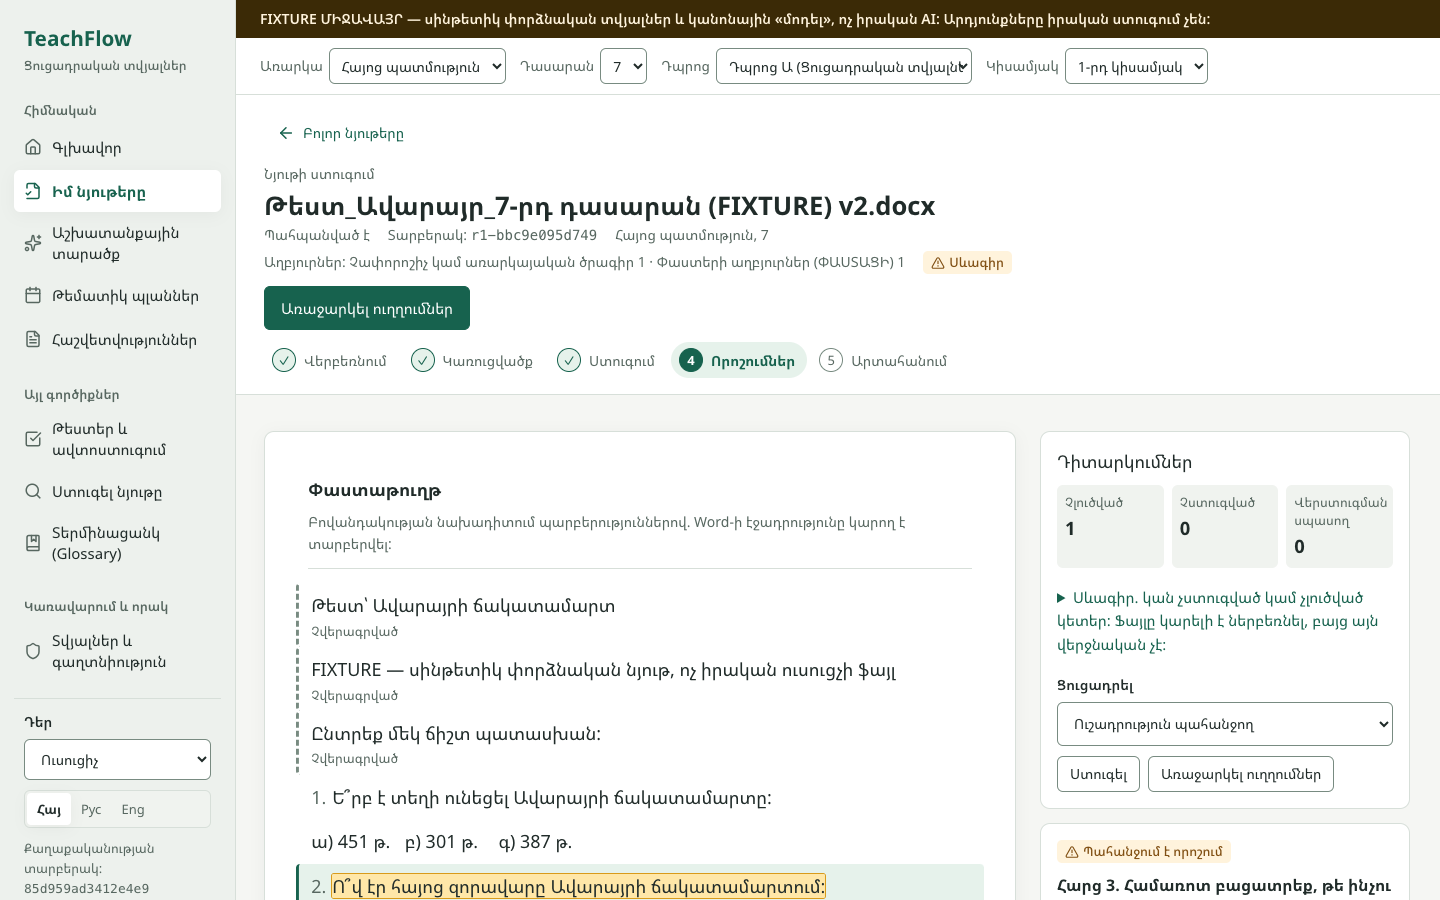
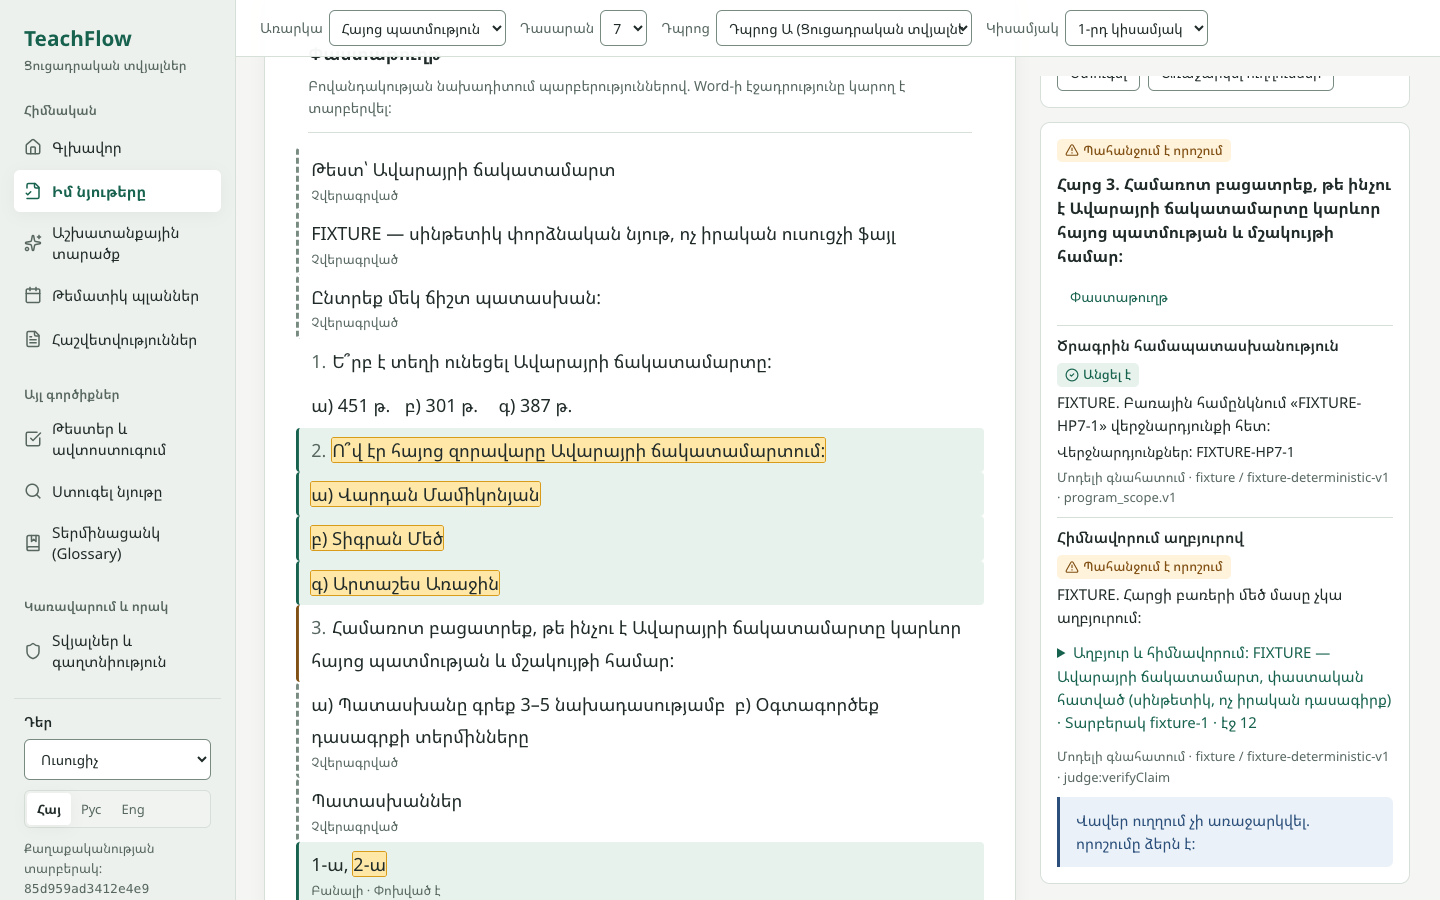
Night build handoff: report, design notes, progress log, TASKS.md

diff --git a/docs/overnight-handoff.md b/docs/overnight-handoff.md
@@ -1,0 +1,127 @@
+# Overnight handoff — 2026-09-24
+
+Branch `claude/docx-material-fix`. Start of the night: `6423a6160e2e21aa0acc670679f96b3d7641f6e9`. Final SHA and push status: see the end of this file.
+**Production: not deployed.** Nothing was merged into `main`. The branch is not the production branch.
+
+## What changed tonight (commits)
+
+| Commit | Summary |
+|---|---|
+| `fed0f0f` | Review sessions: per-review lock + version, run records (running/succeeded/failed/obsolete), late results discarded, spans in segmentation coordinates, **undo**, teacher edits as new proposal revisions, key-only fixes for teacher keys, input-hash reuse, retry of failed calls, formatting policy, exact no-op export, original download, several questions per paragraph, teacher split edits, question-type rules, no-student-data declaration, audit redaction, FIXTURE provider |
+| `be8c6fa` | Found by the E2E run: freshness from dependency invalidation only; option-count uses the real seeded rule; program ≠ factual evidence; Armenian preservation notes; report hash |
+| `a59d0a9` | Armenian-first design system, app shell, Home, the whole review UI, fixture tooling, E2E script and evidence |
+| `06c2297` | Historical debts: consolidation inputs, calendar, embedding audit, MCP strings, academic-year confirmation |
+| `9d73560` | Other screens: translated report statuses, normal-case badges, wrapping headers, screens audit |
+| `504d600` | OpenRouter `max_tokens` bounded (the reason every live call failed) |
+| (docs) | This handoff, the design notes, the progress log, TASKS.md |
+
+## How to run
+
+```bash
+npm install
+npm run dev                      # normal app, http://localhost:3000 (demo data, real provider from .env)
+
+# Separate, labelled FIXTURE environment (rule-based "model", synthetic sources; never touches data/)
+rm -rf .fixture-data && TEACHFLOW_DATA_DIR=.fixture-data npx tsx scripts/fixture-env.ts
+PORT=3100 TEACHFLOW_DATA_DIR=.fixture-data TEACHFLOW_FIXTURE_MODE=1 MODEL_PROVIDER=fixture DISABLE_HMR=true npx tsx server.ts
+node scripts/e2e-review.mjs      # drives the UI in Chrome against :3100, writes docs/e2e + docs/screenshots/after
+npx tsx scripts/inspect-e2e-output.mts   # inspects the downloaded DOCX files
+node scripts/screens-audit.mjs   # main routes on :3000, screenshots + horizontal overflow
+```
+
+`DISABLE_HMR=true` keeps the second server's HMR port free. That also means it does not pick up front-end edits: restart it after changing `src/`.
+
+## Five-minute smoke scenario (by hand, FIXTURE environment on :3100)
+
+1. Open `http://localhost:3100/#/materialReview`. A dark banner says FIXTURE. Upload `docs/fixtures/Թեստ_Ավարայր_7-րդ դասարան (FIXTURE) v2.docx`.
+2. Click **Առաջարկել կառուցվածքը**. Question 3 wrongly gets one "option" (its instruction line). In **Կառուցվածք**, set its type to **Բաց հարց**, click **Հեռացնել տարբերակը**, then **Պահպանել ուղղումները** and **Հաստատել կառուցվածքը**.
+3. Click **Ստուգել** with no sources. Structural checks pass; content checks show **Չի ստուգվել** with the reason (filter **Չստուգված**).
+4. In **Աղբյուրներ**, tick the two FIXTURE sources, click **Պահպանել ընտրությունը**, then **Ստուգել**. Question 2 shows **Խնդիր** with evidence (source, version, page 12). Click it: the document highlights the question, its options and the `2-գ` key entry.
+5. Click **Առաջարկել ուղղումներ**, then **Մերժել առաջարկը**. The failure stays. Propose again, then **Ընդունել ուղղումը**: the key becomes `2-ա` and both questions keyed on that line are re-checked.
+6. Reload: same revision, sources and decisions. Download the corrected DOCX, the original and the report from **Արտահանում**. **Չեղարկել վերջին ուղղումը** restores the previous revision.
+
+## 1. Implemented and verified
+
+- **Deterministic fixture E2E in the real UI** (`scripts/e2e-review.mjs`, log in `docs/e2e/e2e-log.txt`):
+  - upload → proposed structure → teacher correction → no-source checks (structural only) → sources → checks;
+  - the finding highlights exactly the question's spans;
+  - keyboard selection and jump to the document, and Tab reaches accept then decline;
+  - reject leaves the check failed;
+  - accept of the linked key fix, with re-check of the dependent items only;
+  - a stale or repeated decision gets **HTTP 409**;
+  - reload restores the state;
+  - three downloads;
+  - 0px horizontal overflow at 1440 / 1024 / 390 and at 200% zoom;
+  - the drawer closes with Escape and focus returns.
+- **Downloaded files inspected** (`docs/e2e/inspection.txt`):
+  - the original download is byte-identical to the upload (sha256 `5167fb30…`);
+  - in the corrected copy exactly one paragraph changed (`1-ա, 2-գ` → `1-ա, 2-ա`), only `word/document.xml` differs, and only in that one `w:t`;
+  - list numbering is unchanged;
+  - the report's corrected-copy hash equals the download header (`58cc0b0e…`), and it was identical across three runs (deterministic export).
+- **Unit and integration tests: 35 files, 388 tests passing** (`npm test`); `tsc --noEmit` clean; `vite build` OK. The tests cover:
+  - no-op exact bytes, untouched parts, split runs and the formatting policy, lists, table cells, XML escaping, whitespace, Armenian / surrogate / combining characters, protected content;
+  - malformed or unsafe zip and XML, duplicates and paths, entry and decompression limits, `.doc`, `.docm`, `.dotx`;
+  - stale and overlapping patches, the same text in two places, atomic linked groups, double submit, a concurrent check, a late result after a source change, undo, reload, a rejected proposal staying unresolved, no key text inserted;
+  - no sources, demo and unconfirmed sources, wrong subject or grade, changed source, unsupported and multi-select types, ambiguous splits, model failure and retry, result reuse;
+  - audit redaction, embedding audit, MCP strings, calendar, consolidation.
+- **HTTP-level checks on :3000:**
+  - consolidation `{}` → 400, unknown period or template → 400;
+  - a malformed academic year → 400, and a valid one is stored with a manual-confirmation record;
+  - a plan with a calendar of unknown provenance → calendar check `notEvaluated`, hours check still runs.
+- **Live provider smoke test (separate from the fixture E2E):** one real split call on the synthetic file, `google/gemini-3.5-flash` via OpenRouter, 14.5 s. It found 2 single-choice questions with 3 options each and the key 1-ա, 2-գ, with 0 dropped parts. Its audit entry holds only hashes.
+- **Screenshots** (fixture state, labelled FIXTURE in the UI):
+  - before: `docs/screenshots/before/`;
+  - after: `docs/screenshots/after/` (01–14 flow; 10–13 responsive and zoom);
+  - other screens at 1440 and 390: `docs/screenshots/after/screens/` (demo data).
+
+## 2. Implemented but not verified
+
+- **Real Word layout:** `scripts/docx-layout-check.ts` (Word or LibreOffice → PDF → pagination compare) was not run tonight. It opens Microsoft Word through AppleScript, which can stop on a macOS automation permission prompt while nobody is there. The preview is labelled as not being a Word rendering. **Visual layout QA in Word: blocked (needs a person at the machine).**
+- **The live provider beyond splitting:** checks, fixes and re-checks with a real model have not run. They need confirmed real sources; the dev store has only demo sources, which cannot be confirmed.
+- **Screen readers:** no VoiceOver or NVDA pass. The live region, labels and roles are in place but unheard.
+- **Armenian wording:** no fluent reviewer yet. Linguistic QA is pending, as is Russian and English wording review.
+- **Browsers:** only Chrome was tested.
+- **Old records:** the backward-compatibility loading of old review records (missing `version`, `runs`, `atGroupCount`, `'stale'` proposals) is implemented in `reviewService.load()` but not covered by a dedicated test.
+
+## 3. Blocked (external) — smallest next action
+
+| Gate | Blocker | Smallest next action |
+|---|---|---|
+| Real teacher files | None supplied | Get 2–3 anonymised teacher DOCX files; run the smoke scenario on :3000 with a real provider |
+| Real sources | Program / standard / textbook not supplied | Upload them in **Registry**, extract and confirm outcomes, confirm each version (Registry → «Հաստատել vN») |
+| Real Word layout | Needs a person present for Word automation | `npx tsx scripts/docx-layout-check.ts original.docx corrected.docx` and open the PDFs |
+| Linguistic QA | Needs a fluent Armenian reviewer | Review `src/i18n/translations.ts` (`shell`, `home`, `materialReview`, `reports`) and the server messages in `server/materials/*` |
+| Provider budget | The key's limit is low (it could not afford a 65,536-token reservation) | Nothing needed for tonight's scale; `OPENROUTER_MAX_TOKENS` bounds a request |
+
+**Pilot readiness: NOT ready.** Synthetic files, fixture sources and the rule-based fixture provider do not close the real-teacher, real-source or real-Word gates.
+
+## 4. Not in scope (to avoid misunderstanding)
+
+OCR, PDF and scans, tracked-changes export, a separate key file, authentication and multi-tenant isolation (there is none; confirmation names are stated names, not identities), dark mode, and production migration.
+
+## Schema and migration notes (backward compatible, local JSON store)
+
+- `Source.confirmation?` — absent on existing sources, which means **unconfirmed**. It is valid only while `version` and `sourceContentHash` still match. Demo sources are never confirmable.
+- `MaterialReview`:
+  - new `version`, `runs`, `noStudentDataDeclaration?`, and `segmentation.atGroupCount`;
+  - proposal status `'stale'` is renamed `'superseded'`.
+  - `load()` upgrades old records: `version` 0, empty `runs`, `atGroupCount` = the current group count (old records stored spans already in current coordinates), `stale` → `superseded`, and runs left `running` for more than 30 minutes → `failed`.
+- `MaterialItem.stemSpans?`, `MaterialCheck.executionError?`, `MaterialItemResult.inputHash?/checkedAt?`, `MaterialSuggestion.keyChange?/keyBefore?`, `ModelCallInfo.latencyMs?/inputHash?`, and the new check id `question_type` — all optional.
+- `ThematicPlan.calendar` can now be `null`, and carries `source` (`user_confirmed` | `demo`) and `confirmedAt`. Plans stored earlier with the hard-coded 16+18 weeks have no `source`, so their calendar check reports **not evaluated** (intended). `validationNotEvaluated?` is new. The demo seed marks its calendar `demo`; this applies to newly seeded stores. The existing local `data/` store keeps its old plan until "Reset demo data".
+- `ReportInstance.manualConfirmations?` is new.
+- Env: `TEACHFLOW_DATA_DIR`, `PORT`, `TEACHFLOW_FIXTURE_MODE`, `MODEL_PROVIDER=fixture` (refused unless fixture mode, a separate data directory and not production), and `OPENROUTER_MAX_TOKENS`.
+- Files: uploaded DOCX files live in `data/material-files/<sha256>.docx`; the fixture store is in `.fixture-data/`. Both are git-ignored.
+
+## Side effects on the local dev store (`data/`, demo data only)
+
+- One consolidated draft report was created while reproducing the consolidation bug (an empty request at HEAD produced a report).
+- One demo report's academic year changed 2026-2027 → 2025-2026 (with a manual-confirmation record) while testing the new endpoint.
+- Audit log: one entry from before the redaction fix (01:30 UTC) contains the synthetic test's prompt text. It is not real data.
+- "Reset demo data" (sidebar) restores all of these.
+
+## Known issues outside tonight's scope (not changed)
+
+- `server/pipeline/validator.ts` (generated items) checks a rule id `rule-min-options` that does not exist in the seeded rules, so its option-count rule never runs.
+- `server/pipeline/emisAdapter.ts` fills confidence `1.0` and provenance "System recorded" for fields without them.
+- `POST /sources/:id/supersede` invents a version (`<old>-next`) and today's date when none is given.
+- The pinned context in `App.tsx` still starts with demo values (program version `demo-v1`, year `2026-2027`, demo school); they are shown as demo in the shell.

diff --git a/docs/design-reference-notes.md b/docs/design-reference-notes.md
@@ -1,0 +1,36 @@
+# Design reference notes
+
+## Reference pass (time-boxed, 2026-09-24 ≈ 05:20 local)
+
+The brief asked for 4–6 *inspected product flows*. None of the suggested libraries showed flow content without an account or a paid plan, so **no product flow was inspected**. Homepages are not evidence and are not used as such.
+
+| Site | What was reachable | Status |
+|---|---|---|
+| https://nicelydone.club/ | Category list (file upload, import/export, onboarding…); screens require an account | Unavailable (login) |
+| https://pageflows.com/ | Flow category names ("Uploading & Downloading", "Importing & Exporting"); steps require a paid trial | Unavailable (paywall) |
+| https://www.saasframe.io/ | Pattern category counts; `/patterns/empty-state` shows company names (Stripe, Attio, Supabase…) but the content is "Upgrade to SaaSFrame Pro" | Unavailable (paywall) |
+| https://mobbin.com/ | Marketing page only; library requires an account | Unavailable (login) |
+| figma.com/community, godly.website | Not tried: the four above already exhausted the time box, and neither was needed to decide the direction | Not inspected |
+
+Nothing was bought and no observations are invented. The design direction below comes from the brief (§5) and the supplied `design/` reference (`teachflow.css`, `ReviewWorkbench.tsx`, `hy.ts`), which were adapted to the existing React + Tailwind architecture.
+
+## Direction chosen
+
+A calm Armenian teaching workspace: warm near-white canvas (`#f5f6f3`), white document surface, graphite ink (`#202b29`), one deep teal action colour (`#17624e`), quiet borders, restrained status colours (warning `#815014`, error `#a33232`). The document is the visual centre; findings sit beside it.
+
+## Decisions
+
+- **One system, not a second app.** Tokens live in `src/styles/teachflow.css`. Tailwind's `indigo` and `gray` scales are remapped to the same palette in `src/index.css` (`@theme`), so every existing screen changed with no rewrite. `gray-400/500` are dark enough for text.
+- **Contrast is measured, not eyeballed.** ink/bg 13.4, muted/white 6.0, muted/bg 5.5, brand/white 7.3, warning 6.2, error 6.1, remapped gray-400 on white/bg 5.3/4.9, control border 3.6, focus 5.9 (WCAG ratios; script in the session, values recorded in the CSS header).
+- **Armenian typography.** Noto Sans Armenian + Noto Sans are bundled locally via `@fontsource` (OFL-1.1, `font-display: swap`). The Armenian subset covers U+0530–058F (incl. `և`) and FB13–FB17. The Google Fonts request was removed. 16px UI, 18px document text at line height 1.8. `html lang` follows the language and `dir="ltr"`. Armenian is never tracked or set in capitals (a CSS rule, and the demo badges were rewritten in normal case).
+- **Shell.** A 236px left navigation grouped Main / Other tools / Administration; existing role rules unchanged. The context bar folds into one summary line below 900px. Role and language sit in the sidebar footer (the role switch is a demo control without authentication). A real drawer below 900px (Escape closes it and focus returns). Skip link.
+- **Review workbench.** Header with file name, save state, revision, source summary and a draft/final badge; exactly one primary next action derived from state; stage bar Upload → Structure → Check → Review → Export derived from real state (not a locked wizard). Document in the centre, 320–372px findings panel on the right, switch between them below 900px. Only the selected question's own spans are highlighted (question text, options, key entry).
+- **Honest counts, no scores.** Unresolved / not evaluated / awaiting re-check are counts. There is no reliability percentage. The default "needs attention" filter always offers the not-evaluated count as a one-click filter.
+- **Status never by colour alone.** Every badge has an icon and text.
+- **Buttons say what they do.** "Ընդունել ուղղումը", "Մերժել առաջարկը" (with the note that declining is not certifying), "Ներբեռնել բնօրինակը". Downloads are disabled while a write is in flight. Undo is separated from accept and download.
+- **Rejected.** Gradients, glass panels, emoji or sparkle branding, KPI cards, fake activity and invented statistics on Home, uppercase navigation, a "reliability %", bulk "accept all".
+
+## Pending
+
+- Linguistic QA of the Armenian UI strings by a fluent reviewer (not done; the strings are the author's own).
+- A real designer's review of the palette and spacing on real teacher documents.

diff --git a/docs/overnight-progress.md b/docs/overnight-progress.md
@@ -1,28 +1,28 @@
 # Overnight progress — TeachFlow review flow + Armenian-first redesign
 
-Brief: `TeachFlow_Night_Build/MASTER_PROMPT.md` (supplied zip, 2026-09-24).
+Brief: `TeachFlow_Night_Build/MASTER_PROMPT.md` (supplied zip, 2026-09-24). Full report: `docs/overnight-handoff.md`.
 
 ## Baseline (verified at start)
 - Branch `claude/docx-material-fix`, HEAD `6423a6160e2e21aa0acc670679f96b3d7641f6e9`, clean except untracked `.claude/`.
-- Remote `origin` = github.com/alenngevorgyan-ux/teachflow-2.0, default branch `main`. `vercel.json` has no production-branch setting; this feature branch is not `main`.
-- `npx tsc --noEmit` OK; `npm test` 32 files / 360 tests pass; `vite build` OK. `npm run lint` = `tsc --noEmit`.
-- Before screenshots: `docs/screenshots/before/` (1440, 1024, 390). At 390px the page overflows horizontally by 596px.
-- Live model: OpenRouter key has no credits (seen 2026-09-24). No real sources, no real teacher DOCX.
+- Remote `origin` = github.com/alenngevorgyan-ux/teachflow-2.0, default branch `main`; `vercel.json` has no production-branch setting; this branch is not `main`.
+- `tsc` OK; `npm test` 32 files / 360 tests; `vite build` OK. Before screenshots show 596px horizontal overflow at 390px.
 
-## Plan (short)
-1. P0/P1 correctness: per-review mutation lock + optimistic version; run records (pending/running/succeeded/failed/obsolete) with input hashes; late results discarded; spans stored in segmentation coordinates and mapped through accepted groups (enables undo); undo; question-type rules; formatting policy for cross-run edits; no-op export = original bytes; original download; declaration for uninspected content; no document text in audit logs; result reuse by input hash; teacher segmentation edits (validated); unassigned material listed; proposal states proposed/accepted/rejected/superseded.
-2. Deterministic FIXTURE environment (separate data dir, fixture provider, labelled everywhere) for the E2E UI run.
-3. P2 design system: tokens, locally bundled Noto Sans Armenian, AppShell with left nav, review workbench with stages, findings panel, filters, evidence, diff, export summary; translations.
-4. P3 debts: consolidation defaults, calendar assumptions, embedding audit, MCP trimming, academic-year manual confirmation.
-5. Visual migration of other main screens via shared tokens/components.
-6. Verification: tests, build, puppeteer E2E (download + inspect DOCX), screenshots 1440/1024/390 + 200% zoom, docs, commits, push (feature branch only).
-
-## Log
-- (start) Baseline recorded, before screenshots captured, puppeteer-core added as dev dependency (drives the installed Google Chrome; no browser download).
+## Done
+1. Correctness: lock + version, run records, late-result discard, span anchoring + undo, proposal revisions, key-only fixes, input-hash reuse, retry, formatting policy, exact no-op export, original download, shared-paragraph spans, teacher split edits, type rules, declaration, audit redaction, FIXTURE environment (`fed0f0f`).
+2. E2E-found fixes (`be8c6fa`).
+3. Design system, shell, Home, review UI, fixture tooling, E2E evidence (`a59d0a9`).
+4. Historical debts (`06c2297`).
+5. Other screens (`9d73560`).
+6. OpenRouter max_tokens and live smoke (`504d600`).
+7. Docs: handoff, design notes, TASKS.md.
 
 ## Active step
-P0/P1 correctness work in `server/materials/*`.
+Done. Only the external gates remain (see the handoff §3).
+
+## Next exact action (for whoever continues)
+Upload the real subject program and textbook in Registry, confirm them, and run the smoke scenario on :3000 with 2–3 real teacher DOCX files; then run `scripts/docx-layout-check.ts` with Word.
 
 ## Blockers
-- Live provider: no credits (cannot top up — not authorised).
-- Real sources / real teacher DOCX: not supplied.
+- Real sources and real teacher DOCX: not supplied.
+- Word layout run: needs a person present (macOS automation prompt).
+- Armenian linguistic QA: needs a fluent reviewer.

diff --git a/TASKS.md b/TASKS.md
@@ -41,11 +41,13 @@ Flow: upload DOCX -> check against selected confirmed sources -> accept fixes ->
 - [x] **M4. Review service.** Split into questions (model gives ids/quotes only, verified), teacher-confirmed split, explicit or teacher-set key, checks pass/fail/needs_review/not_evaluated, suggestions with verbatim evidence, accept/reject with targeted re-check, draft/final export and change list.
 - [x] **M5. UI** page + registry confirmation controls.
 - [x] **M6. Layout check tool** (`scripts/docx-layout-check.ts`): renders original and corrected copy with LibreOffice or Word and compares pagination. Text-level only; the PDFs are for a person to look at.
+- [x] **M7. Night build (2026-09-24)**: sessions, concurrency, undo, run records, fixture environment, Armenian-first design system and review workbench, historical debts. See `docs/overnight-handoff.md`. Deterministic fixture E2E in the real UI passes; one live split call passes.
 
 Open — the pilot is NOT ready until these are done:
 - [ ] **P1. Real teacher files.** Run the full flow on 2–3 real DOCX files written in Word by teachers (no student data), including the layout check in Word. Synthetic test files do not count.
 - [ ] **P2. Real sources.** Upload the current subject program and standard (and the pilot teacher's textbook with permission), extract and confirm outcomes, confirm each source version. Until then content checks are not_evaluated.
-- [ ] **P3. Model runs.** Split, checks and suggestions have only run against fake models in tests; the OpenRouter key had no credits. Run them on the real files and record quality problems.
+- [ ] **P3. Model runs.** Only the split has run live (synthetic file, 2026-09-24, after bounding max_tokens). Checks, fixes and re-checks need confirmed real sources; run them on the real files and record quality problems.
+- [ ] **P5. Armenian linguistic QA** of the UI and server messages by a fluent reviewer.
 - [ ] **P4. Teacher measurement.** Time to bring an own test to a usable state vs the usual way.
 - [ ] Later: PDF/scans, separate key file, Word tracked-changes export.
 
